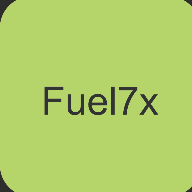
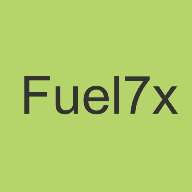
Oprava manifest a ikonky

diff --git a/index.html b/index.html
@@ -4,6 +4,18 @@
   <meta charset="UTF-8">
   <meta name="viewport" content="width=device-width, initial-scale=1.0">
   <title>Moja PWA</title>
+  
+  <!-- iOS meta tagy -->
+  <meta name="apple-mobile-web-app-capable" content="yes">
+  <meta name="apple-mobile-web-app-status-bar-style" content="black">
+  <meta name="apple-mobile-web-app-title" content="Moja PWA">
+
+  <!-- iOS ikony -->
+  <link rel="apple-touch-icon" href="assets/icon-180x180.png">
+  <link rel="apple-touch-icon" sizes="152x152" href="assets/icon-152x152.png">
+  <link rel="apple-touch-icon" sizes="167x167" href="assets/icon-167x167.png">
+  <link rel="apple-touch-icon" sizes="180x180" href="assets/icon-180x180.png">
+  
   <link rel="manifest" href="manifest.json">
   <link rel="stylesheet" href="css/styles.css">
 </head>
